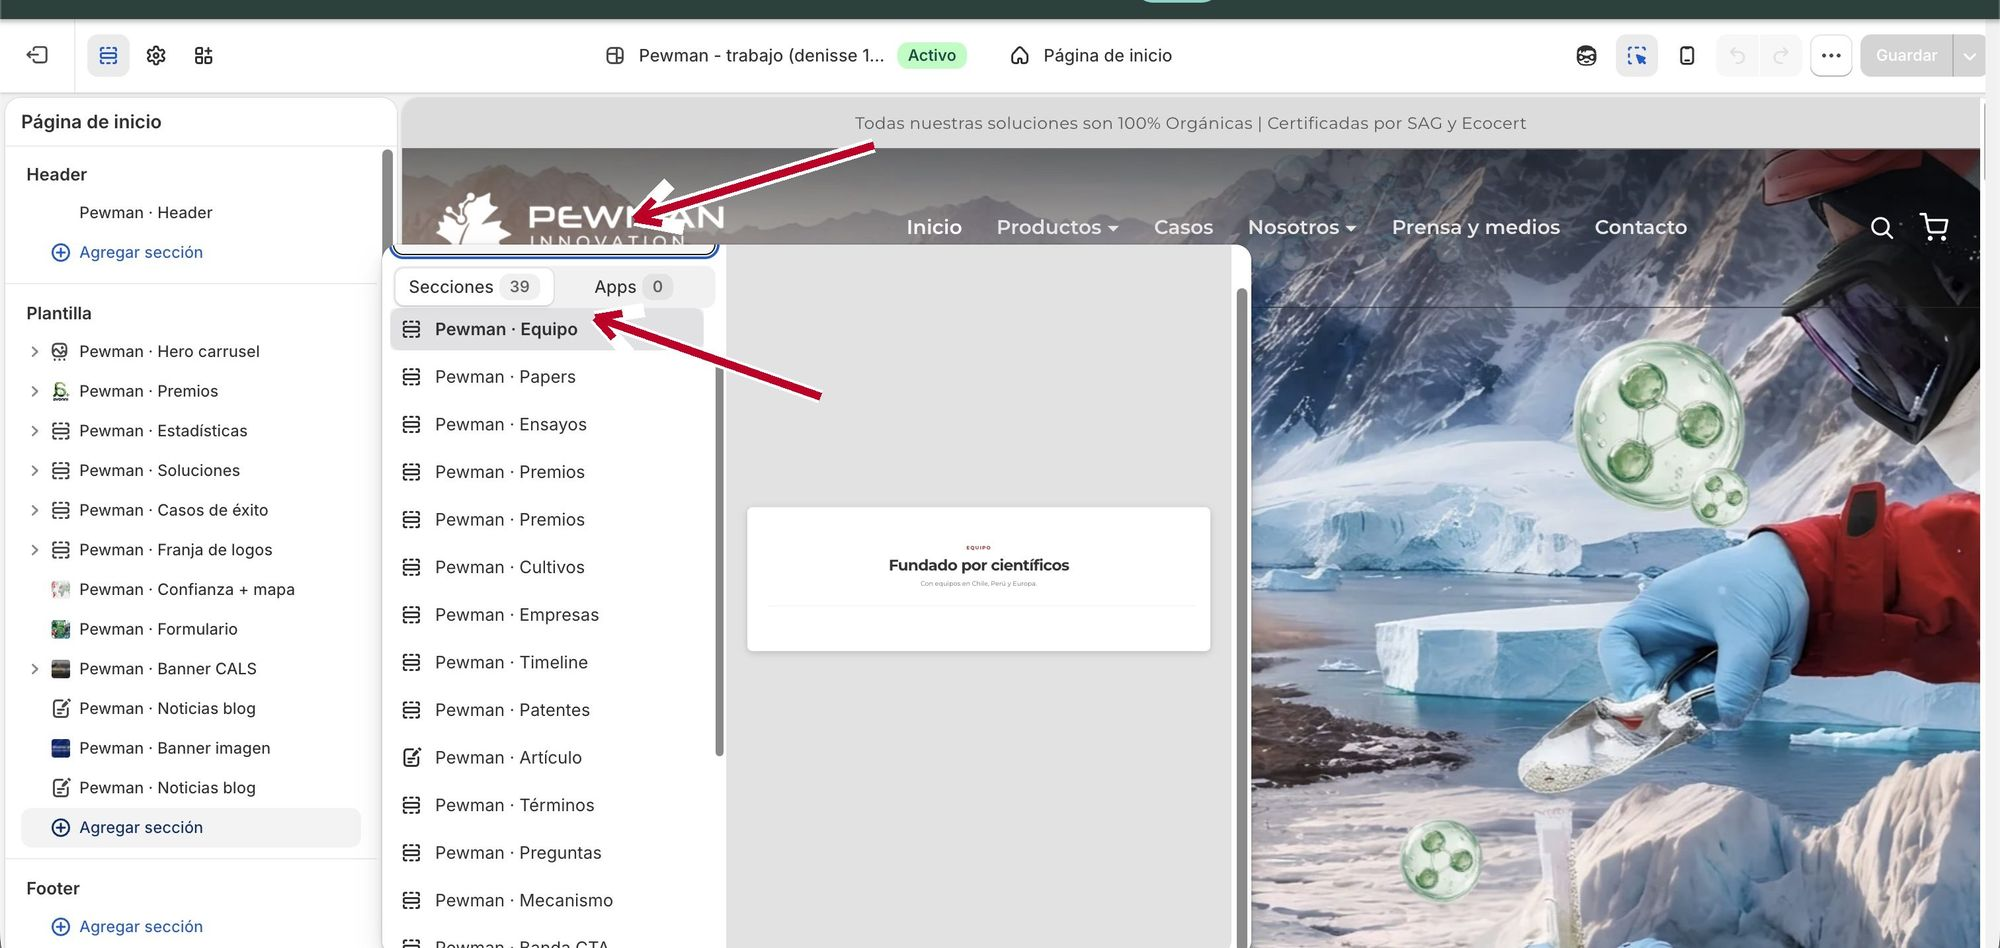
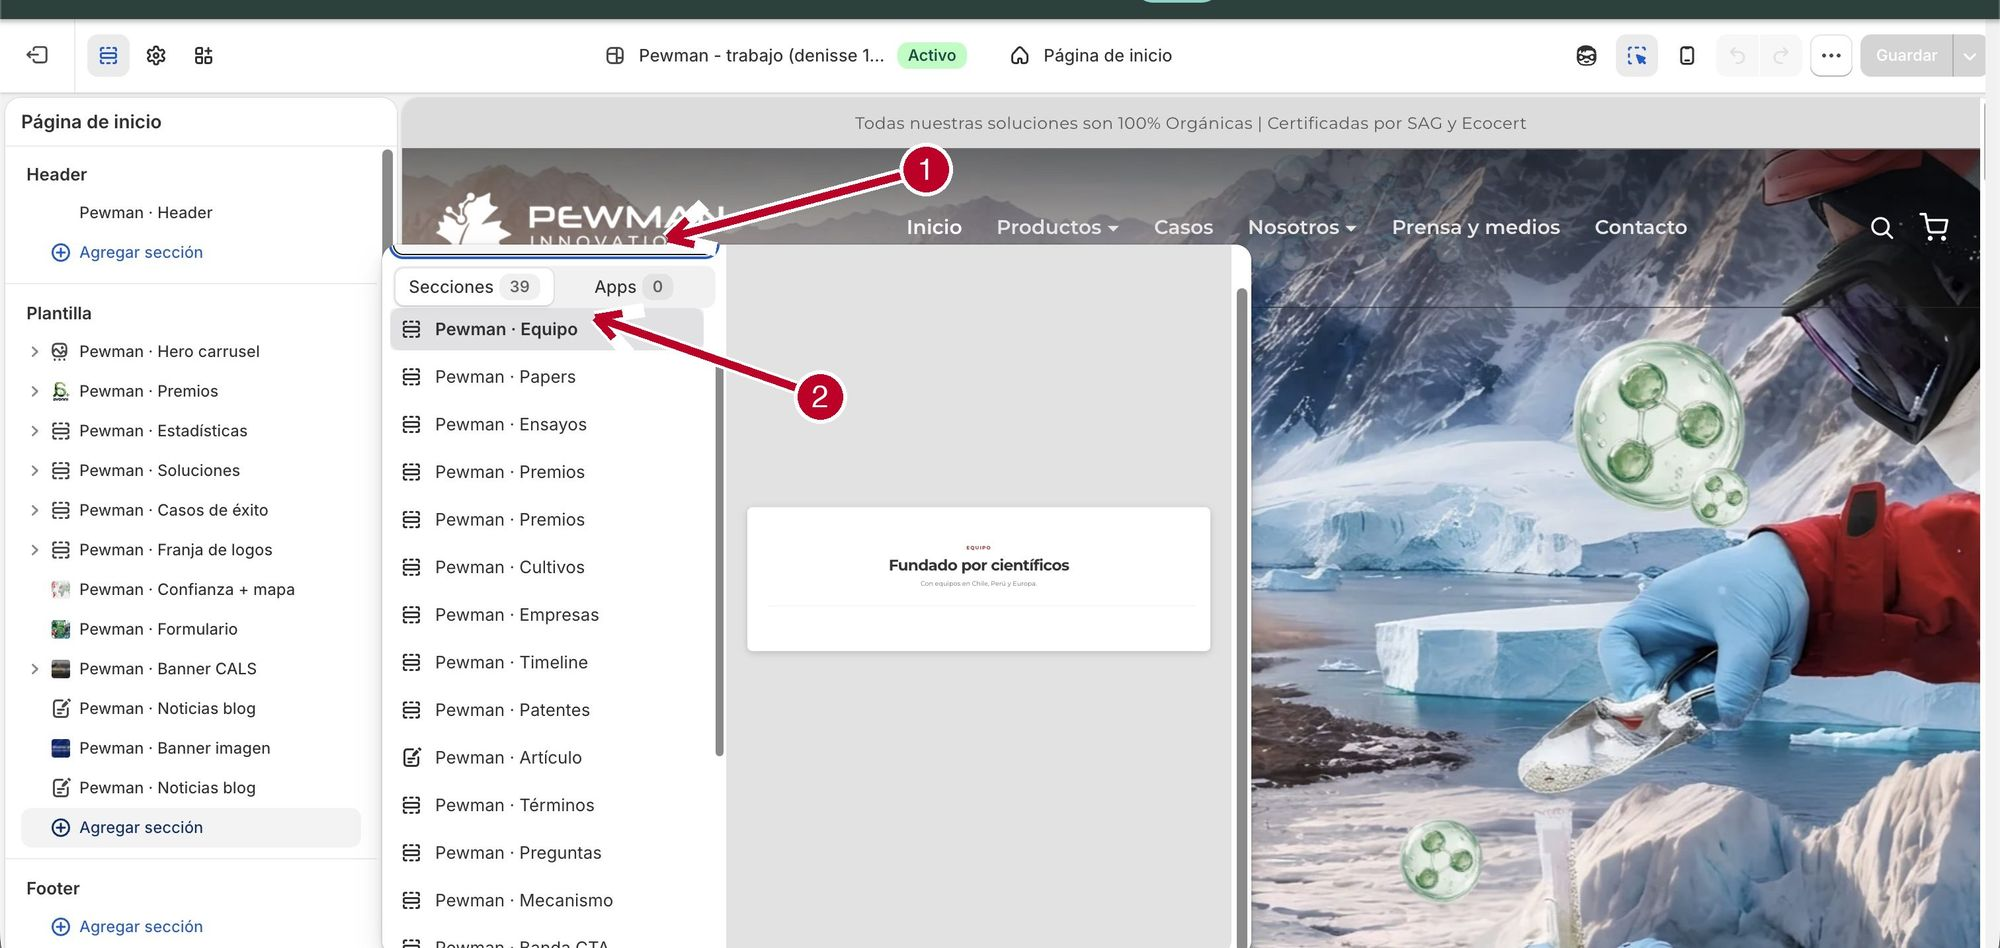
fix: flechas verificadas una a una + globos numerados paso a paso + captions con numeros

Changed region(s): [[0.31, 0.153, 0.496, 0.2753], [0.372, 0.3977, 0.434, 0.4589]]

diff --git a/index.html b/index.html
@@ -337,7 +337,7 @@ figure.shot figcaption{font-size:13.5px;color:var(--gris);margin-top:8px;text-al
     <div class="wf-pie">Partes del editor: barra superior (página, vista celular, deshacer, Guardar), lista de secciones a la izquierda, vista previa al centro.</div>
   </div>
 
-  <figure class="shot"><img src="img/01-editar-tema.jpg" alt="Pantalla Tienda online con el botón Editar tema señalado" loading="lazy"><figcaption>La pantalla Tienda online: el botón <b>Editar tema</b> abre el editor; el <b>···</b> tiene Duplicar y Cambiar nombre.</figcaption></figure>
+  <figure class="shot"><img src="img/01-editar-tema.jpg" alt="Pantalla Tienda online con el botón Editar tema señalado" loading="lazy"><figcaption>① <b>Editar tema</b> abre el editor visual · ② el menú <b>···</b> tiene Duplicar y Cambiar nombre.</figcaption></figure>
   <h3>Moverte entre páginas</h3>
   <p>Arriba al centro hay un selector que dice <b>Página de inicio</b>. Haz clic y elige qué quieres editar:</p>
   <ul>
@@ -349,7 +349,7 @@ figure.shot figcaption{font-size:13.5px;color:var(--gris);margin-top:8px;text-al
   <figure class="shot"><img src="img/03-selector-paginas.jpg" alt="Selector de páginas del editor abierto" loading="lazy"><figcaption>El selector de arriba abre esta lista: en <b>Páginas</b> están Nosotros, Casos, Contacto y las que crees tú.</figcaption></figure>
   <div class="nota"><b>Verás nombres cortos como «empresa» o «casos»</b>Al abrir Páginas, el selector muestra la plantilla de cada página con su nombre interno: «empresa» es Nosotros, «casos» es Casos de éxito, «prensa» es Prensa y medios, «contacto» es Contacto. Aparece también una plantilla antigua «contact»: ignórala.</div>
 
-  <figure class="shot"><img src="img/02-editor-general.jpg" alt="El editor con flechas al selector de página, Agregar sección y Guardar" loading="lazy"><figcaption>El editor: arriba el selector de página, a la izquierda <b>⊕ Agregar sección</b>, arriba a la derecha <b>Guardar</b>.</figcaption></figure>
+  <figure class="shot"><img src="img/02-editor-general.jpg" alt="El editor con flechas al selector de página, Agregar sección y Guardar" loading="lazy"><figcaption>① Elige qué página editas · ② <b>Agregar sección</b> suma piezas nuevas · ③ <b>Guardar</b> publica los cambios.</figcaption></figure>
   <h3>Cambiar un texto</h3>
   <ol class="pasos">
     <li>Elige la página donde está el texto.</li>
@@ -429,7 +429,7 @@ figure.shot figcaption{font-size:13.5px;color:var(--gris);margin-top:8px;text-al
     <div class="wf-pie">El panel «Agregar sección»: buscador arriba, catálogo abajo, vista previa a la derecha.</div>
   </div>
 
-  <figure class="shot"><img src="img/04-agregar-seccion.jpg" alt="Panel Agregar sección filtrado por pewman" loading="lazy"><figcaption>Escribe <b>pewman</b> en el buscador y aparece el catálogo completo, con vista previa al pasar el mouse.</figcaption></figure>
+  <figure class="shot"><img src="img/04-agregar-seccion.jpg" alt="Panel Agregar sección filtrado por pewman" loading="lazy"><figcaption>① Escribe <b>pewman</b> en el buscador del panel · ② elige la sección en la lista; al pasar el mouse ves su vista previa.</figcaption></figure>
   <h3>Mover una sección</h3>
   <p>En la lista izquierda, toma la sección con el mouse y <b>arrástrala</b> hacia arriba o abajo. El orden de la lista es el orden de la página. Guarda al terminar.</p>
 
@@ -449,7 +449,7 @@ figure.shot figcaption{font-size:13.5px;color:var(--gris);margin-top:8px;text-al
   </table>
   <div class="nota"><b>En ese menú también aparece «Editar código»</b>No lo uses: abre el archivo técnico de la sección y un cambio accidental puede romperla. Todo lo editable ya está disponible en los campos del panel.</div>
 
-  <figure class="shot"><img src="img/13-menu-contextual.jpg" alt="Menú contextual con Duplicar y Ocultar señalados" loading="lazy"><figcaption>El menú <b>···</b> de secciones y bloques: <b>Duplicar</b> y <b>Ocultar</b> son tus aliados; «Editar código» no se toca.</figcaption></figure>
+  <figure class="shot"><img src="img/13-menu-contextual.jpg" alt="Menú contextual con Duplicar y Ocultar señalados" loading="lazy"><figcaption>① <b>Duplicar</b> crea una copia idéntica · ② <b>Ocultar</b> guarda sin mostrar. «Editar código» no se toca.</figcaption></figure>
   <h3>Borrar una sección</h3>
   <ol class="pasos">
     <li>Haz clic en la sección (lista izquierda o vista previa).</li>
@@ -506,7 +506,7 @@ figure.shot figcaption{font-size:13.5px;color:var(--gris);margin-top:8px;text-al
   </div>
 
   <h3>Agregar una persona a una región que ya existe</h3>
-  <figure class="shot"><img src="img/05-equipo-arbol.jpg" alt="Árbol de la sección Equipo" loading="lazy"><figcaption>La sección Equipo abierta: cada región tiene su <b>⊕ Agregar bloque</b> para sumar integrantes; el <b>ojito</b> oculta sin borrar.</figcaption></figure>
+  <figure class="shot"><img src="img/05-equipo-arbol.jpg" alt="Árbol de la sección Equipo" loading="lazy"><figcaption>① <b>Agregar bloque</b> dentro de una región suma un integrante · ② el <b>ojito</b> oculta la sección sin borrarla.</figcaption></figure>
   <ol class="pasos">
     <li>Entra al editor (<span class="ruta">Tienda online → <b>Editar tema</b></span>) y elige la página <b>Nosotros</b> (en el selector de arriba: Páginas → empresa).</li>
     <li>En la lista izquierda, abre <b>Pewman · Equipo</b> con la flechita.</li>
@@ -520,7 +520,7 @@ figure.shot figcaption{font-size:13.5px;color:var(--gris);margin-top:8px;text-al
   <h3 id="c6-titulo">El título académico (PhD, Dr., Ing.)</h3>
   <p>Cada integrante tiene el campo <b>Título académico (opcional)</b>. Lo que escribas ahí aparece bajo el cargo, en el color corporativo. Ejemplos: «PhD en Microbiología», «Ing. Agrónoma», «Bioquímico, MSc». Si la persona no tiene título que destacar, deja el campo vacío y no se muestra nada.</p>
 
-  <figure class="shot"><img src="img/06-integrante-panel.jpg" alt="Panel de un Integrante con el campo Título académico señalado" loading="lazy"><figcaption>La ficha de un integrante: el campo <b>Título académico</b> y el <b>···</b> con Duplicar y Ocultar.</figcaption></figure>
+  <figure class="shot"><img src="img/06-integrante-panel.jpg" alt="Panel de un Integrante con el campo Título académico señalado" loading="lazy"><figcaption>① El campo <b>Título académico</b> se muestra bajo el cargo · ② el menú <b>···</b> del bloque tiene Duplicar y Ocultar.</figcaption></figure>
   <h3>Cambiar el cargo o la foto de alguien</h3>
   <ol class="pasos">
     <li>En la misma sección, haz clic sobre la persona (en la lista o directamente en la vista previa).</li>
@@ -611,11 +611,11 @@ figure.shot figcaption{font-size:13.5px;color:var(--gris);margin-top:8px;text-al
   </ol>
   <div class="nota"><b>Para qué sirve</b>Si cargas hoy una nota que salió en marzo, ponle la fecha de marzo: así queda ordenada en su lugar correcto dentro del listado y la tarjeta muestra la fecha verdadera.</div>
 
-  <figure class="shot"><img src="img/08-articulo-editor.jpg" alt="Editor de un artículo con el lápiz de la fecha señalado" loading="lazy"><figcaption>El <b>lápiz</b> junto a la fecha de Visibilidad cambia la fecha con que la entrada aparece y se ordena.</figcaption></figure>
+  <figure class="shot"><img src="img/08-articulo-editor.jpg" alt="Editor de un artículo con el lápiz de la fecha señalado" loading="lazy"><figcaption>① El <b>lápiz</b> cambia la fecha con que la entrada aparece y se ordena · ② <b>Visible / Oculto</b> controla si está publicada.</figcaption></figure>
   <h3>Editar o corregir una entrada</h3>
   <p>Ve a <span class="ruta">Contenido → Artículos del blog</span>, haz clic en la entrada, corrige y guarda. Los cambios se reflejan de inmediato.</p>
 
-  <figure class="shot"><img src="img/09-articulo-extracto-blog.jpg" alt="Extracto y selector de Blog señalados" loading="lazy"><figcaption>Más abajo en la misma pantalla: el <b>Extracto</b> (el resumen de la tarjeta) y el selector de <b>Blog</b>.</figcaption></figure>
+  <figure class="shot"><img src="img/09-articulo-extracto-blog.jpg" alt="Extracto y selector de Blog señalados" loading="lazy"><figcaption>① El selector de <b>Blog</b> define dónde aparece la entrada · ② el <b>Extracto</b> es el resumen que se ve en las tarjetas.</figcaption></figure>
   <h3>Sacar una entrada del sitio</h3>
   <ul>
     <li><b>Temporalmente:</b> dentro de la entrada, cambia Visibilidad a <b>Oculto</b>. Desaparece del sitio pero queda guardada.</li>
@@ -641,7 +641,7 @@ figure.shot figcaption{font-size:13.5px;color:var(--gris);margin-top:8px;text-al
     <li>Guarda.</li>
   </ol>
 
-  <figure class="shot"><img src="img/12-agregar-pagina.jpg" alt="Formulario Agregar página" loading="lazy"><figcaption>Agregar página: parte <b>Oculta</b> mientras la construyes y usa la <b>Plantilla</b> predeterminada.</figcaption></figure>
+  <figure class="shot"><img src="img/12-agregar-pagina.jpg" alt="Formulario Agregar página" loading="lazy"><figcaption>① Déjala <b>Oculta</b> mientras la construyes · ② usa la <b>Plantilla</b> predeterminada y guarda.</figcaption></figure>
   <h3>Parte B: diseñarla con secciones</h3>
   <ol class="pasos">
     <li>Entra al editor (<span class="ruta">Tienda online → <b>Editar tema</b></span>).</li>
@@ -741,7 +741,7 @@ figure.shot figcaption{font-size:13.5px;color:var(--gris);margin-top:8px;text-al
   <h3>Copiar el enlace de un archivo</h3>
   <p>En la lista de Archivos, a la derecha de cada archivo hay un <b>ícono de enlace</b>: haz clic y queda copiado. Ese enlace sirve para pegarlo donde una sección pida «URL del PDF» (ensayos, documentos de sostenibilidad, papers).</p>
 
-  <figure class="shot"><img src="img/10-archivos.jpg" alt="Pantalla de Archivos" loading="lazy"><figcaption>Contenido → Archivos: <b>Subir archivos</b> arriba a la derecha y, en cada fila, el <b>ícono de enlace</b> para copiar su URL.</figcaption></figure>
+  <figure class="shot"><img src="img/10-archivos.jpg" alt="Pantalla de Archivos" loading="lazy"><figcaption>① <b>Subir archivos</b> agrega fotos y PDF · ② el <b>ícono de enlace</b> copia la URL de ese archivo.</figcaption></figure>
   <h3>Tamaños recomendados</h3>
   <table>
     <tr><th>Uso</th><th>Tamaño ideal</th><th>Formato</th></tr>
@@ -772,7 +772,7 @@ figure.shot figcaption{font-size:13.5px;color:var(--gris);margin-top:8px;text-al
     <tr><td>Footer menu · Customer account main menu</td><td>Menús técnicos de Shopify. No los toques.</td></tr>
   </table>
 
-  <figure class="shot"><img src="img/11-menus.jpg" alt="Pantalla de Menús con Main menu señalado" loading="lazy"><figcaption>Contenido → Menús: <b>Main menu</b> es el menú superior; los dos «Pewman Footer» son las columnas del pie.</figcaption></figure>
+  <figure class="shot"><img src="img/11-menus.jpg" alt="Pantalla de Menús con Main menu señalado" loading="lazy"><figcaption>Contenido → Menús: <b>Main menu</b> es el menú superior; los dos «Pewman Footer» son las columnas del pie de página.</figcaption></figure>
   <h3>Agregar un enlace al menú</h3>
   <ol class="pasos">
     <li>Entra al menú (por ejemplo, <b>Main menu</b>).</li>
